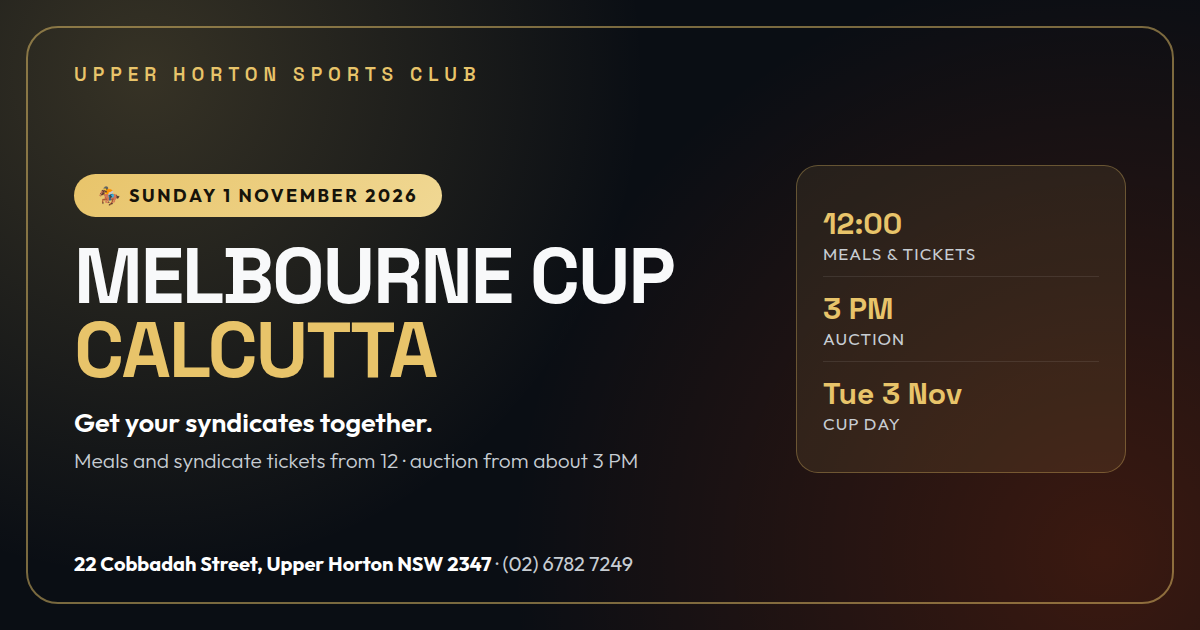
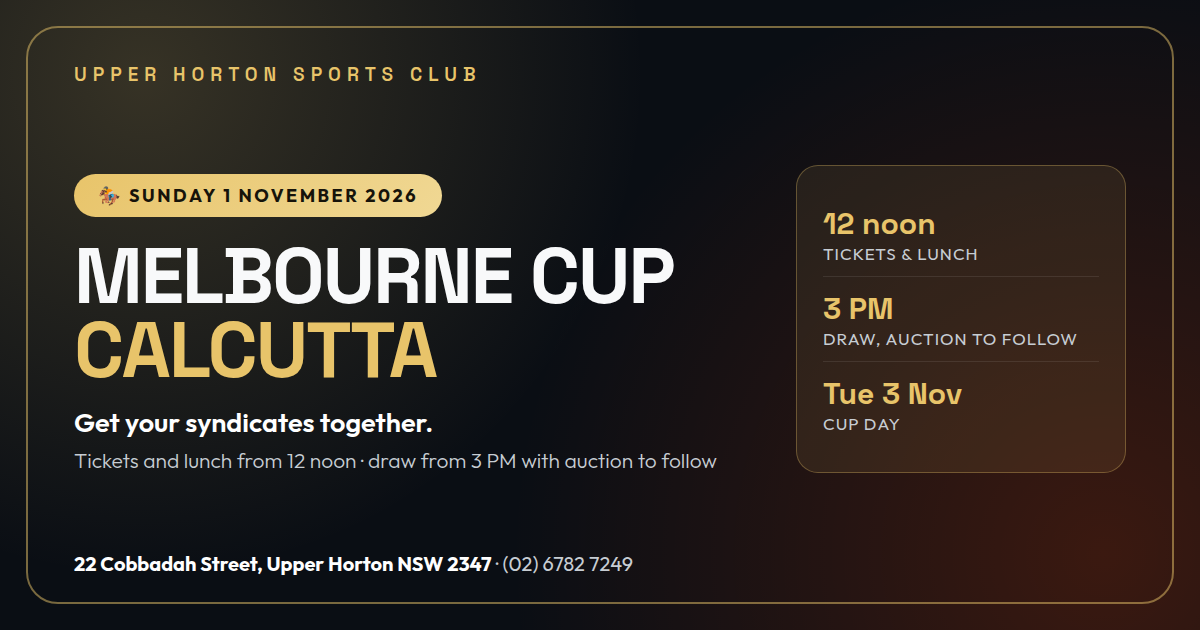
Calcutta: tickets and lunch from 12 noon, draw from 3 PM with auction to follow
Update wording across calcutta.html, index.html, events.html and the social
graphics to match the club's Facebook post: tickets and lunch from 12 noon,
draw from 3 PM with auction to follow (was 'auction from about 3 PM').
Re-render the three social PNGs from their HTML sources.

Changed region(s): [[0.0617, 0.7238, 0.6167, 0.754], [0.6783, 0.3317, 0.8325, 0.4222], [0.6783, 0.5127, 0.8942, 0.573]]

diff --git a/calcutta.html b/calcutta.html
@@ -5,7 +5,7 @@
     <meta charset="UTF-8">
     <meta name="viewport" content="width=device-width, initial-scale=1.0">
     <title>Melbourne Cup Calcutta | Sunday 1 November | Upper Horton Sports Club</title>
-    <meta name="description" content="Melbourne Cup Calcutta at Upper Horton Sports Club — Sunday 1 November 2026. Meals and syndicate tickets from 12, auction from about 3 PM. Get your syndicates together. 22 Cobbadah St, Upper Horton NSW. Ph (02) 6782 7249.">
+    <meta name="description" content="Melbourne Cup Calcutta at Upper Horton Sports Club — Sunday 1 November 2026. Tickets and lunch from 12 noon, draw from 3 PM with auction to follow. Get your syndicates together. 22 Cobbadah St, Upper Horton NSW. Ph (02) 6782 7249.">
     <meta name="keywords" content="Melbourne Cup Calcutta, Upper Horton Sports Club, Melbourne Cup syndicate, Calcutta auction, Sunday lunch, Upper Horton NSW, Gwydir">
     <meta name="author" content="Upper Horton Sports Club">
     <meta name="robots" content="index, follow">
@@ -18,7 +18,7 @@
     <meta property="og:site_name" content="Upper Horton Sports Club">
     <meta property="og:url" content="https://upperhortonsportsclub.com.au/calcutta.html">
     <meta property="og:title" content="Melbourne Cup Calcutta | Sunday 1 November | Upper Horton Sports Club">
-    <meta property="og:description" content="Meals and syndicate tickets from 12, auction from about 3 PM. Get your syndicates together.">
+    <meta property="og:description" content="Tickets and lunch from 12 noon, draw from 3 PM with auction to follow. Get your syndicates together.">
     <meta property="og:image" content="https://upperhortonsportsclub.com.au/images/banner.jpg">
 
     <!-- Fonts -->
@@ -386,7 +386,7 @@
             <span class="hero-badge">🏇 Sunday 1 November 2026</span>
             <h1>Melbourne Cup<br><span class="gold">Calcutta</span></h1>
             <p class="hero-tagline"><strong>Get your syndicates together.</strong><br>
-                Meals and syndicate tickets from 12 · auction from about 3 PM.</p>
+                Tickets and lunch from 12 noon · draw from 3 PM with auction to follow.</p>
             <div class="hero-actions">
                 <a href="tel:0267827249" class="btn-pill btn-gold">📞 Call the club</a>
                 <a href="#food" class="btn-pill btn-glass">See the food</a>
@@ -398,14 +398,11 @@
             <section class="card wide">
                 <h2>How the day runs</h2>
                 <p>
-                    <strong>Meals start at 12:00</strong> and <strong>syndicate tickets are available from
-                    then</strong>, right through until the auction. The <strong>auction gets going from about
-                    3:00 PM</strong>. Come for lunch, grab your syndicate, stay for the bidding, and stick
-                    around to see whose horse gets up.
+                    <strong>Tickets and lunch from 12 noon</strong>, with the <strong>draw at 3 PM and the auction to follow</strong>. Come for lunch, grab your syndicate, stay for the draw and the bidding, and stick around to see whose horse gets up.
                 </p>
                 <div class="fun-strip">
-                    <div class="fun-stat"><span class="num">12:00</span><span class="lbl">Meals &amp; tickets from</span></div>
-                    <div class="fun-stat"><span class="num">From 3 PM</span><span class="lbl">Auction</span></div>
+                    <div class="fun-stat"><span class="num">12 noon</span><span class="lbl">Tickets &amp; lunch from</span></div>
+                    <div class="fun-stat"><span class="num">3 PM</span><span class="lbl">Draw, auction to follow</span></div>
                     <div class="fun-stat"><span class="num">Sun 1 Nov</span><span class="lbl">Calcutta</span></div>
                     <div class="fun-stat"><span class="num">Tue 3 Nov</span><span class="lbl">Cup Day</span></div>
                 </div>
@@ -422,12 +419,12 @@
                     <div class="step">
                         <span class="n">1</span>
                         <h3>Get your syndicate together</h3>
-                        <p>Syndicate tickets are available from 12:00.</p>
+                        <p>Tickets and lunch from 12 noon.</p>
                     </div>
                     <div class="step">
                         <span class="n">2</span>
                         <h3>Horses go under the hammer</h3>
-                        <p>The auction starts at about 3:00 PM.</p>
+                        <p>The draw is at 3 PM, with the auction to follow.</p>
                     </div>
                     <div class="step">
                         <span class="n">3</span>
@@ -478,7 +475,7 @@
                     you drink with on a Friday — <strong>get your syndicates together</strong>.
                 </p>
                 <p>
-                    <strong>Syndicate tickets are available from 12:00</strong>, ahead of the auction, so you can
+                    <strong>Tickets are available from 12 noon</strong>, ahead of the draw, so you can
                     sort your crew out over lunch before the bidding starts.
                 </p>
                 <p>

diff --git a/index.html b/index.html
@@ -650,7 +650,7 @@
             <span class="hero-promo-title">🏇 Melbourne Cup Calcutta</span>
             <span class="hero-promo-when">Sunday 1 November</span>
             <span class="hero-promo-cta">See the day &rarr;</span>
-            <span class="hero-promo-sub">Meals &amp; syndicate tickets from 12 · auction from about 3 PM · get your syndicates together</span>
+            <span class="hero-promo-sub">Tickets &amp; lunch from 12 noon · draw from 3 PM with auction to follow · get your syndicates together</span>
         </a>
 
         <!-- Utility first: are we open, what's on tonight -->
@@ -715,7 +715,7 @@
 
         <section class="whatson-section">
             <h2>What's on</h2>
-            <p><strong>Sunday 1 November:</strong> Melbourne Cup Calcutta — meals and syndicate tickets from 12, with the auction from about 3 PM. <a href="calcutta.html">Get your syndicates together &rarr;</a></p>
+            <p><strong>Sunday 1 November:</strong> Melbourne Cup Calcutta — tickets and lunch from 12 noon, draw from 3 PM with auction to follow. <a href="calcutta.html">Get your syndicates together &rarr;</a></p>
             <p><strong>Friday nights:</strong> meals plus the Friday night raffle trays. <strong>Sunday:</strong> lunch from 12, pizzas from 5. The bar is open Wednesday to Sunday.</p>
             <p>On the calendar each year: <strong>Footy Tips</strong> (starts March) and the <strong>Family Motorbike Weekend</strong> (May). Meat Fest 2026 was held on Saturday 26 September and sold out — a big thank you to every pitmaster and diner who came along.</p>
             <div class="button-row">

diff --git a/social/calcutta-square.html b/social/calcutta-square.html
@@ -93,14 +93,14 @@
       <div class="badge">🏇 Sunday 1 November 2026</div>
       <h1>Melbourne Cup<br><span class="gold">Calcutta</span></h1>
       <div class="tagline">Get your syndicates together.</div>
-      <div class="sub">Meals and syndicate tickets from 12 · auction from about 3 PM</div>
+      <div class="sub">Tickets and lunch from 12 noon · draw from 3 PM with auction to follow</div>
     </div>
 
     <div>
       <div class="divider"></div>
       <div class="details">
-        <div class="detail"><span class="k">12:00</span><span class="v">Meals &amp; tickets</span></div>
-        <div class="detail"><span class="k">3 PM</span><span class="v">Auction</span></div>
+        <div class="detail"><span class="k">12 noon</span><span class="v">Tickets &amp; lunch</span></div>
+        <div class="detail"><span class="k">3 PM</span><span class="v">Draw, auction to follow</span></div>
         <div class="detail"><span class="k">Tue 3 Nov</span><span class="v">Cup Day</span></div>
       </div>
       <div class="foot" style="margin-top: 40px;">

diff --git a/social/calcutta-landscape.html b/social/calcutta-landscape.html
@@ -70,11 +70,11 @@
         <div class="badge">🏇 Sunday 1 November 2026</div>
         <h1>Melbourne Cup<br><span class="gold">Calcutta</span></h1>
         <div class="tag">Get your syndicates together.</div>
-        <div class="sub">Meals and syndicate tickets from 12 · auction from about 3 PM</div>
+        <div class="sub">Tickets and lunch from 12 noon · draw from 3 PM with auction to follow</div>
       </div>
       <div class="panel">
-        <div class="line"><span class="k">12:00</span><span class="v">Meals &amp; tickets</span></div>
-        <div class="line"><span class="k">3 PM</span><span class="v">Auction</span></div>
+        <div class="line"><span class="k">12 noon</span><span class="v">Tickets &amp; lunch</span></div>
+        <div class="line"><span class="k">3 PM</span><span class="v">Draw, auction to follow</span></div>
         <div class="line"><span class="k">Tue 3 Nov</span><span class="v">Cup Day</span></div>
       </div>
     </div>

diff --git a/events.html b/events.html
@@ -295,7 +295,7 @@
                     <span class="tag" style="background: #E8C46A; color: #16130a;">Sunday</span>
                     <h2>Melbourne Cup Calcutta</h2>
                     <p>
-                        Meals and syndicate tickets from 12, with the auction from about 3 PM. Hot &amp; cold share
+                        Tickets and lunch from 12 noon, draw from 3 PM with auction to follow. Hot &amp; cold share
                         platters, chicken burger sliders and loaded hotdogs. Get your syndicates together —
                         Cup Day itself is Tuesday 3 November.
                     </p>

diff --git a/social/calcutta-menu.html b/social/calcutta-menu.html
@@ -55,7 +55,7 @@
   <div class="inner">
     <div class="eyebrow">Melbourne Cup Calcutta</div>
     <h1>The Food</h1>
-    <div class="when">Sunday 1 November · meals from 12 · Upper Horton Sports Club</div>
+    <div class="when">Sunday 1 November · tickets and lunch from 12 noon · Upper Horton Sports Club</div>
 
     <div class="menu">
       <div class="item">
